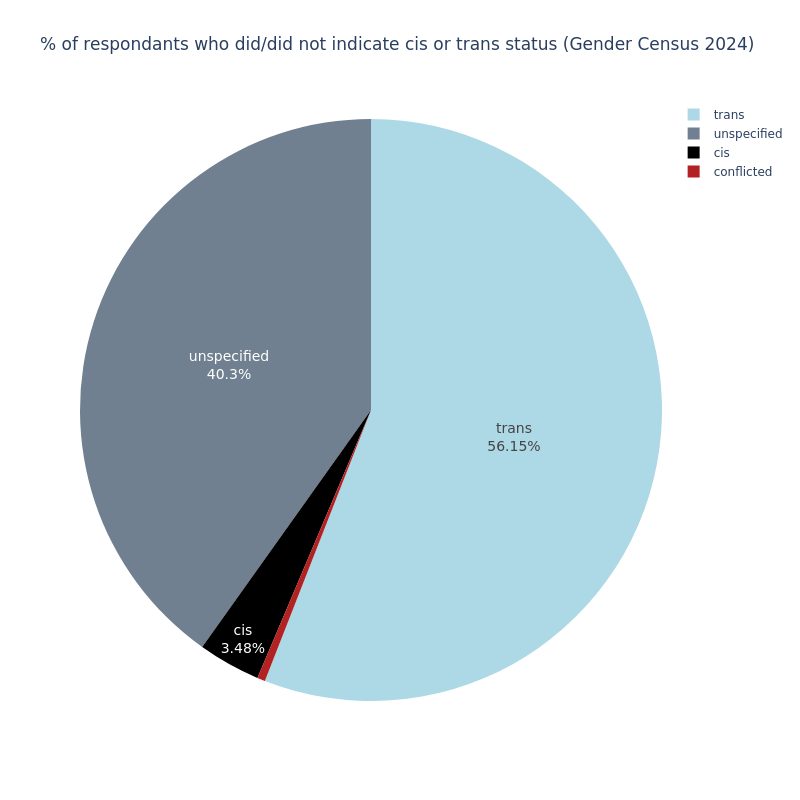
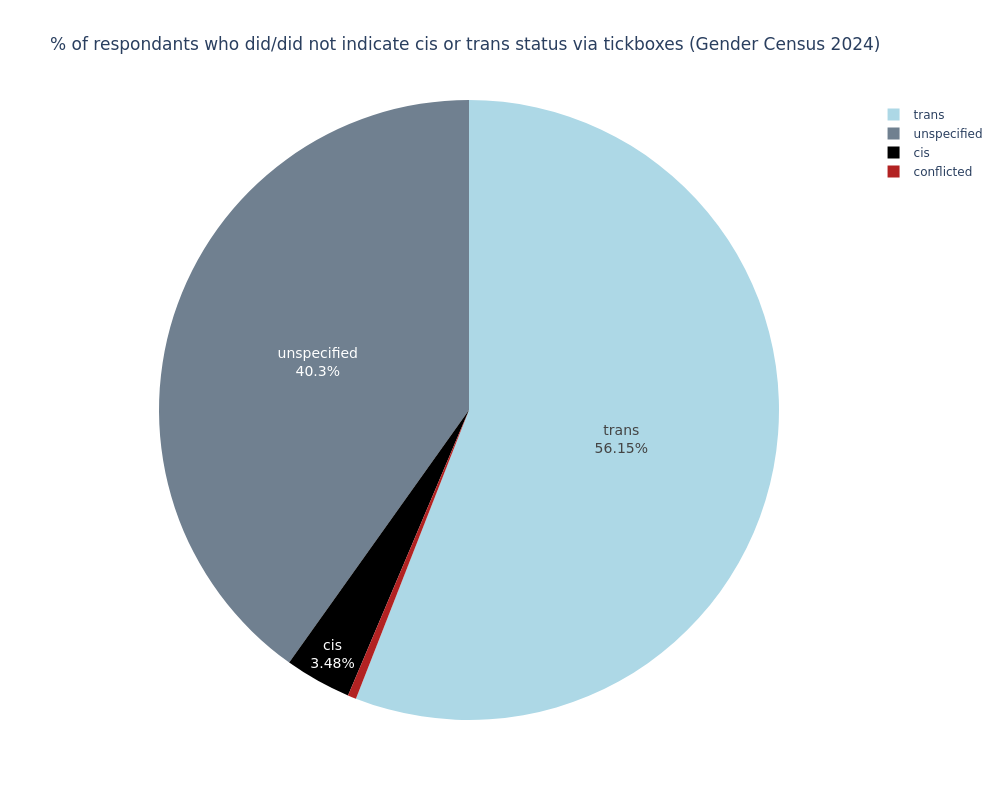
specify that this is only tickbox labels in chart titles

diff --git a/visualisation/make_pie_charts.py b/visualisation/make_pie_charts.py
@@ -42,9 +42,9 @@ def make_pie(input_srs:pd.Series, data_case:str):
     elif data_case == "aligned_pronoun_pie":
         title = f"% of respondants using aligned/unaligned pronoun sets {suffix}"
     elif data_case == "tickbox_trans_cis_labels":
-        title = f"% of respondants who did/did not indicate cis or trans status {suffix}"
+        title = f"% of respondants who did/did not indicate cis or trans status via tickboxes {suffix}"
     elif data_case == "tickbox_trans_direction_labels":
-        title = f"% of trans respondants who did/did not specify their direction {suffix}"
+        title = f"% of trans respondants who did/did not specify their direction via tickboxes {suffix}"
 
     fig = go.Figure(data=[
         go.Pie(labels=labels, values=values, text=text, marker_colors=colours, 

diff --git a/visualisation/make_label_tickbox_charts.py b/visualisation/make_label_tickbox_charts.py
@@ -40,7 +40,7 @@ def make_label_tickbox_charts(input_df:pd.DataFrame):
     trans_cis_fig.write_image(
         f"{folder}trans_cis_pie.png",
         height=800,
-        width=800,
+        width=1000,
     )
 
     # transmasc, transfemme, unspecified trans (pie)
@@ -49,7 +49,7 @@ def make_label_tickbox_charts(input_df:pd.DataFrame):
     trans_direction_fig.write_image(
         f"{folder}trans_direction_pie.png",
         height=800,
-        width=800,
+        width=1000,
     )
 
 

diff --git a/visualisation/make_bar_charts.py b/visualisation/make_bar_charts.py
@@ -66,7 +66,7 @@ def make_simple_bar(input_srs:pd.Series, data_case:str):
     elif data_case == "tickbox_label_total":
         title = f"% of respondants who ticked this label {suffix}"
     elif data_case == "tickbox_nb_labels":
-        title = f"% of respondants who use nonbinary labels {suffix}"
+        title = f"% of respondants who ticked nonbinary umbrella labels {suffix}"
 
     fig.update_yaxes(range=range)
     fig.update_layout(
